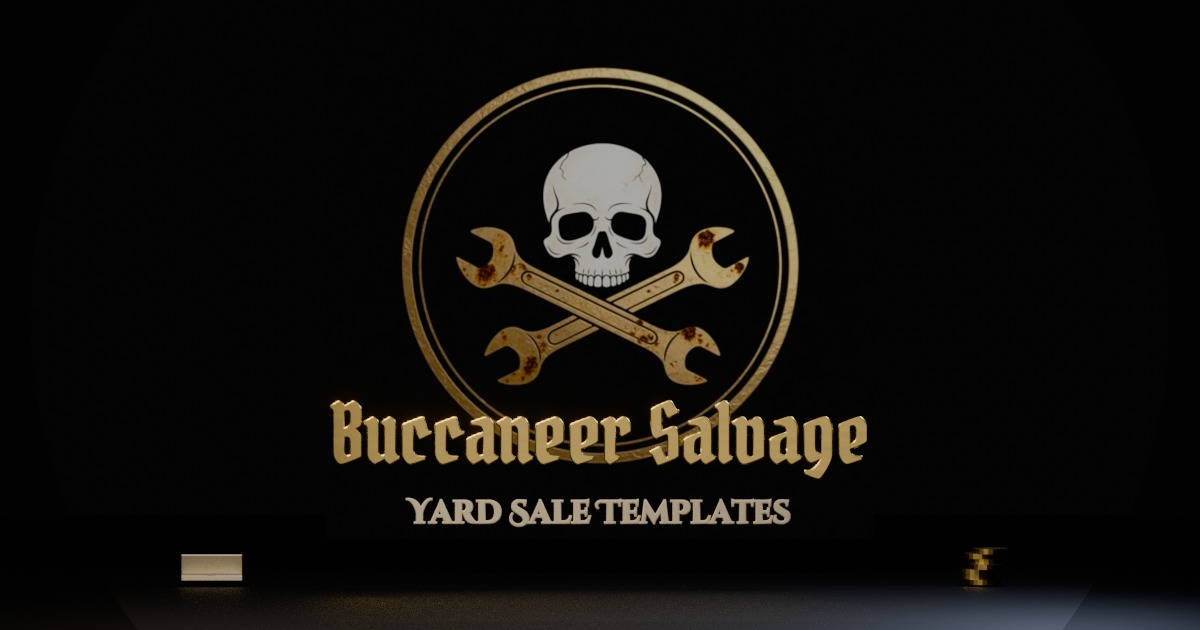
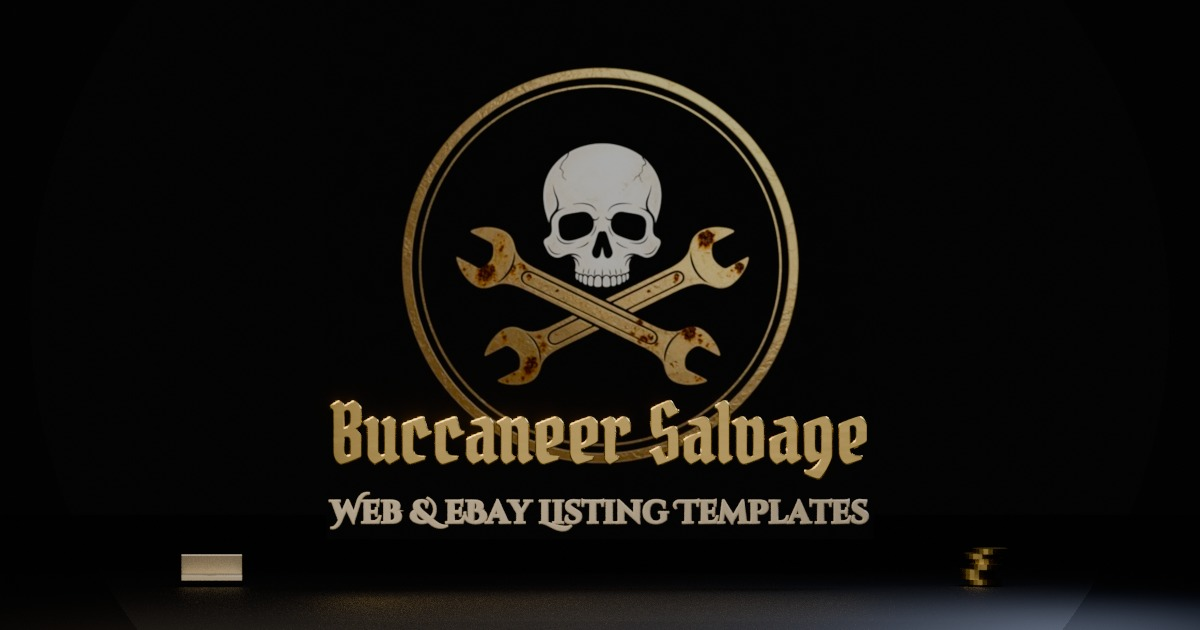
Fix OG subtitles: templates = web/eBay listing templates, videos = YouTube gallery.

Changed region(s): [[0.2775, 0.7841, 0.74, 0.8444]]

diff --git a/og_render.py b/og_render.py
@@ -23,7 +23,7 @@ CARDS = {
     "store":         ("Store Catalog",                 [("chest", -4.4, 1.15), ("coins", 4.4, 1.0)]),
     "services":      ("eBay Listing Services",         [("spyglass", -4.4, 1.2), ("crate", 4.4, 1.1)]),
     "scrap":         ("Free Scrap & E-Waste Pickup",   [("barrel", -4.4, 1.2), ("crate", 4.5, 1.15)]),
-    "videos":        ("Video Walkthroughs",            [("cannon", -4.2, 1.0), ("barrel", 4.6, 1.1)]),
+    "videos":        ("YouTube Video Gallery",            [("cannon", -4.2, 1.0), ("barrel", 4.6, 1.1)]),
     "contact":       ("Contact the Yard",              [("envelope", -4.4, 1.2), ("barrel", 4.5, 1.15)]),
     "map":           ("Directions to the Yard",        [("spyglass", -4.4, 1.15), ("flag", 4.4, 1.1)]),
     "terms":         ("Terms & Returns",               [("crate", -4.4, 1.15), ("coins", 4.4, 1.0)]),
@@ -31,7 +31,7 @@ CARDS = {
     "privacy":       ("Privacy Policy",                [("lock", -4.4, 1.2), ("crate", 4.5, 1.1)]),
     "thanks":        ("Message Sent — Fair Winds",     [("flag", -4.3, 1.15), ("chest", 4.5, 1.1)]),
     "404":           ("Lost at Sea",                   [("barrel", -4.4, 1.15), ("crate", 4.5, 1.1)]),
-    "templates":     ("Yard Sale Templates",           [("envelope", -4.4, 1.2), ("coins", 4.4, 1.0)]),
+    "templates":     ("Web & eBay Listing Templates",           [("envelope", -4.4, 1.2), ("coins", 4.4, 1.0)]),
 }
 
 FLOOR_Z = -3.1
